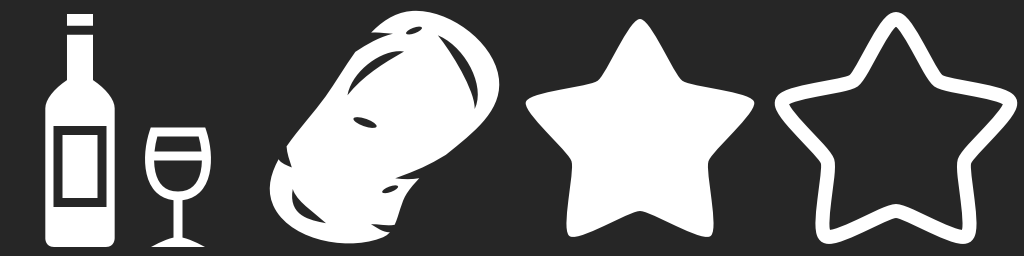
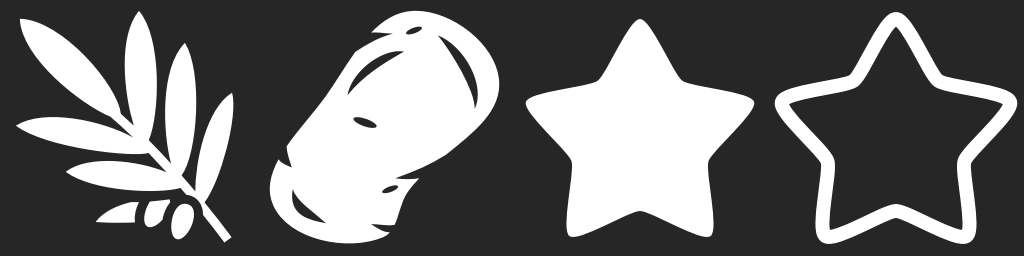
PUL-031: aplicar revisión

Changed region(s): [[0.0, 0.0312, 0.25, 0.9688]]

diff --git a/docs/backlog/PUL-031-assets-m1-aceite-cachelos-estrellas.md b/docs/backlog/PUL-031-assets-m1-aceite-cachelos-estrellas.md
@@ -37,31 +37,35 @@ Assets que necesitan PUL-028/029/030, con la regla D16 (solo licencias confirmad
 ## Plan
 
 1. Iconos SVG de game-icons.net (repo oficial github.com/game-icons/icons), todos de Delapouite,
-   CC BY 3.0, sin el fondo negro: `oil.svg` («Wine bottle», la botella más parecida a una de
-   aceite de oliva; «Oil can» se descartó por no ser botella), `potato.svg` («Potato»),
-   `star_full.svg` («Round star») y `star_empty.svg` (modificación de «Round star»: solo contorno).
-   Elegidos tras rasterizar y comparar 12 candidatos con `Image.load_svg_from_string`.
+   CC BY 3.0, sin el fondo negro: `oil.svg` («Olive»: rama de olivo con aceitunas, inequívoco para
+   aceite de oliva; en revisión se descartó «Wine bottle» por incluir una copa de vino y
+   «Oil can» por no ser botella), `potato.svg` («Potato»), `star_full.svg` («Round star») y
+   `star_empty.svg` (modificación de «Round star»: solo contorno). Elegidos tras rasterizar y
+   comparar 15 candidatos con `Image.load_svg_from_string`.
 2. Placeholders 3D con primitivas, generados con un script GDScript tipado temporal
    (`godot --headless -s`, se borra tras generar; mismo patrón que PUL-008): `oil_bottle.tscn`
    (0,4 m de alto, vidrio verde + aceite + etiqueta + tapón), `cachelos_raw.tscn` y
    `cachelos_cooked.tscn` (mismo ovoide de 0,18 m, materiales marrón y pálido) y
    `cachelera.tscn` (caja de 0,5×0,32×0,42 m con cachelos asomando). Todos con raíz `Node3D` y
    marcador `Front` en −Z; dimensiones coherentes con la olla (r=0,33, h=0,65).
-3. Materiales nuevos `ph_oil`, `ph_oil_liquid`, `ph_cachelo_raw`, `ph_cachelo_cooked` (la
-   cachelera reutiliza `ph_wood`).
+3. Materiales nuevos `ph_oil` (vidrio verde translúcido, `transparency = 1` con alfa 0,45 para
+   que el aceite interior se vea — corrección de revisión), `ph_oil_liquid`, `ph_cachelo_raw`,
+   `ph_cachelo_cooked` (la cachelera reutiliza `ph_wood`).
 4. Tests GUT `godot/tests/unit/test_assets_m1.gd` (TDD sobre los AC): carga de los 4 iconos y de
-   los 4 placeholders (instancia, Front, mallas), colores crudo/cocido distintos y presencia de
-   URL, licencia y autor en `licenses-pul-031.md` y `CREDITS.md`.
-5. Atribuciones: `godot/assets/CREDITS.md` y tabla nueva `docs/assets/licenses-pul-031.md`.
+   los 4 placeholders (instancia, Front existente **y en −Z**, mallas), colores crudo/cocido
+   distintos y presencia de URL, licencia y autor en `licenses-pul-031.md` y `CREDITS.md`.
+5. Atribuciones: `godot/assets/CREDITS.md` y tabla nueva `docs/assets/licenses-pul-031.md` con las
+   mismas columnas que `licenses.md` (Asset (origen) | Destino | Licencia | Atribución requerida).
 
 ## Evidence
 
-- AC1: `test_assets_m1.gd` — 4 tests, 47 aserciones, en verde (`tools/verify.sh` completo OK:
-  gdformat, gdlint, import, 3087 aserciones GUT y smoke de 120 frames). Iconos rasterizados en
-  `docs/evidence/PUL-031/ac1-iconos.png`.
-- AC2: filas con URL, autor y licencia en `docs/assets/licenses-pul-031.md`; atribución CC BY 3.0
-  a Delapouite en `godot/assets/CREDITS.md`. Test `test_ac2_atribuciones_mencionan_los_assets_nuevos`.
+- AC1: `test_assets_m1.gd` — 4 tests, 51 aserciones, en verde (`tools/verify.sh` completo OK tras
+  la revisión: gdformat, gdlint, import, GUT y smoke de 120 frames). Iconos rasterizados en
+  `docs/evidence/PUL-031/ac1-iconos.png` (actualizada con «Olive»).
+- AC2: `docs/assets/licenses-pul-031.md` con las columnas de `licenses.md` (URL+obra+autor en la
+  1ª columna, modificación de `star_empty` como nota); atribución CC BY 3.0 a Delapouite en
+  `godot/assets/CREDITS.md`. Test `test_ac2_atribuciones_mencionan_los_assets_nuevos`.
 - AC3: `docs/evidence/PUL-031/ac3-placeholders.png` (cachelera, olla de PUL-008 como referencia de
-  escala, botella de aceite, cachelo crudo y cocido), capturada con el MCP de Godot en una escena
-  temporal ya eliminada; 0 errores en el log de ejecución.
+  escala, botella de aceite con el aceite visible por el vidrio translúcido, cachelo crudo y
+  cocido), recapturada con el MCP de Godot tras la revisión; 0 errores en el log de ejecución.
 - `tools/check_owns.py jrmougan/pul-031 jrmougan/agentica-migracion-godot-alpha` limpio.

diff --git a/docs/assets/licenses-pul-031.md b/docs/assets/licenses-pul-031.md
@@ -5,24 +5,26 @@ El producer consolida esta tabla en `docs/assets/licenses.md`.
 
 ## Iconos SVG (game-icons.net, CC BY 3.0)
 
-| Asset en `godot/` | Origen (URL) | Autor | Licencia | Modificación |
-|---|---|---|---|---|
-| `assets/textures/icons/oil.svg` | https://game-icons.net/1x1/delapouite/wine-bottle.html («Wine bottle») | Delapouite | CC BY 3.0 | Se elimina el fondo negro |
-| `assets/textures/icons/potato.svg` | https://game-icons.net/1x1/delapouite/potato.html («Potato») | Delapouite | CC BY 3.0 | Se elimina el fondo negro |
-| `assets/textures/icons/star_full.svg` | https://game-icons.net/1x1/delapouite/round-star.html («Round star») | Delapouite | CC BY 3.0 | Se elimina el fondo negro |
-| `assets/textures/icons/star_empty.svg` | Derivado de https://game-icons.net/1x1/delapouite/round-star.html («Round star») | Delapouite | CC BY 3.0 | Solo el contorno (`fill="none"`, trazo blanco) |
+| Asset (origen) | Destino en `godot/` | Licencia | Atribución requerida |
+|---|---|---|---|
+| https://game-icons.net/1x1/delapouite/olive.html («Olive», Delapouite) | `assets/textures/icons/oil.svg` | CC BY 3.0 | Sí: «Olive» por Delapouite, game-icons.net |
+| https://game-icons.net/1x1/delapouite/potato.html («Potato», Delapouite) | `assets/textures/icons/potato.svg` | CC BY 3.0 | Sí: «Potato» por Delapouite, game-icons.net |
+| https://game-icons.net/1x1/delapouite/round-star.html («Round star», Delapouite) | `assets/textures/icons/star_full.svg` | CC BY 3.0 | Sí: «Round star» por Delapouite, game-icons.net |
+| Derivado de https://game-icons.net/1x1/delapouite/round-star.html («Round star», Delapouite) | `assets/textures/icons/star_empty.svg` | CC BY 3.0 | Sí: modificación de «Round star» por Delapouite, game-icons.net |
 
 Texto de la licencia: https://creativecommons.org/licenses/by/3.0/
 Los SVG se descargaron del repositorio oficial https://github.com/game-icons/icons (mismos
-autores y licencia que la web). Para «aceite» se eligió «Wine bottle» por ser la botella más
-parecida a una botella de aceite de oliva; «Oil can» se descartó por no ser una botella.
+autores y licencia que la web) y se modifican quitando el rectángulo negro de fondo, salvo
+`star_empty.svg`, que además deja solo el contorno de la estrella (`fill="none"`, trazo blanco).
+Para el aceite se usa «Olive» (aceituna/rama de olivo): «Wine bottle» incluía una copa de vino
+y «Oil can» no es una botella (revisión de PUL-031).
 
 ## Placeholders 3D y materiales (creados en el proyecto)
 
-| Asset en `godot/` | Origen | Licencia | Atribución requerida |
+| Asset (origen) | Destino en `godot/` | Licencia | Atribución requerida |
 |---|---|---|---|
-| `assets/models/placeholders/oil_bottle.tscn` | Propio (primitivas; dimensiones junto a la olla de PUL-008) | Propio | No |
-| `assets/models/placeholders/cachelos_raw.tscn` | Propio (primitivas) | Propio | No |
-| `assets/models/placeholders/cachelos_cooked.tscn` | Propio (primitivas) | Propio | No |
-| `assets/models/placeholders/cachelera.tscn` | Propio (primitivas) | Propio | No |
-| `assets/materials/ph_oil.tres`, `ph_oil_liquid.tres`, `ph_cachelo_raw.tres`, `ph_cachelo_cooked.tres` | Propio | Propio | No |
+| Propio (primitivas; dimensiones junto a la olla de PUL-008) | `assets/models/placeholders/oil_bottle.tscn` | Propio | No |
+| Propio (primitivas) | `assets/models/placeholders/cachelos_raw.tscn` | Propio | No |
+| Propio (primitivas) | `assets/models/placeholders/cachelos_cooked.tscn` | Propio | No |
+| Propio (primitivas) | `assets/models/placeholders/cachelera.tscn` | Propio | No |
+| Propio | `assets/materials/ph_oil.tres`, `ph_oil_liquid.tres`, `ph_cachelo_raw.tres`, `ph_cachelo_cooked.tres` | Propio | No |

diff --git a/godot/assets/CREDITS.md b/godot/assets/CREDITS.md
@@ -10,7 +10,7 @@ Detalle por fichero en `docs/assets/licenses.md` (y `licenses-pul-009.md`, `lice
   - «Crosshair» por Delapouite — https://game-icons.net/1x1/delapouite/crosshair.html
   - Licencia: https://creativecommons.org/licenses/by/3.0/
 - **Iconos de Game-icons.net para M1** (`textures/icons/oil.svg`, `potato.svg`, `star_full.svg`, `star_empty.svg`), CC BY 3.0, todos por Delapouite:
-  - «Wine bottle» (oil.svg) — https://game-icons.net/1x1/delapouite/wine-bottle.html
+  - «Olive» (oil.svg) — https://game-icons.net/1x1/delapouite/olive.html
   - «Potato» (potato.svg) — https://game-icons.net/1x1/delapouite/potato.html
   - «Round star» (star_full.svg) — https://game-icons.net/1x1/delapouite/round-star.html
   - star_empty.svg es una modificación de «Round star»: solo el contorno.
